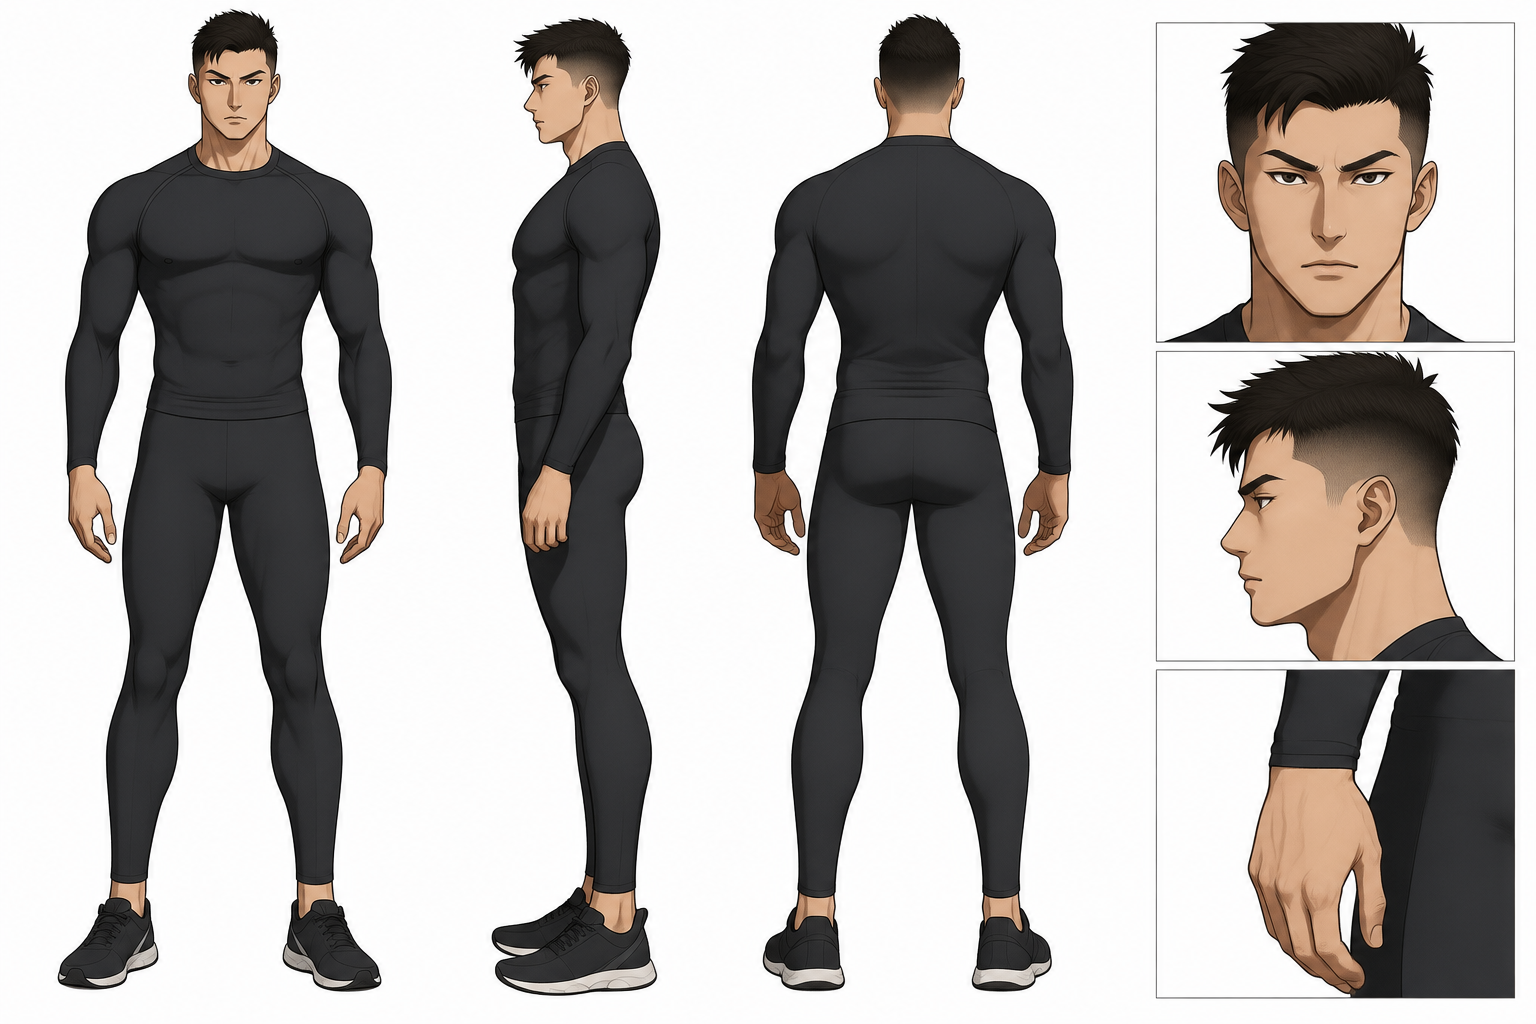
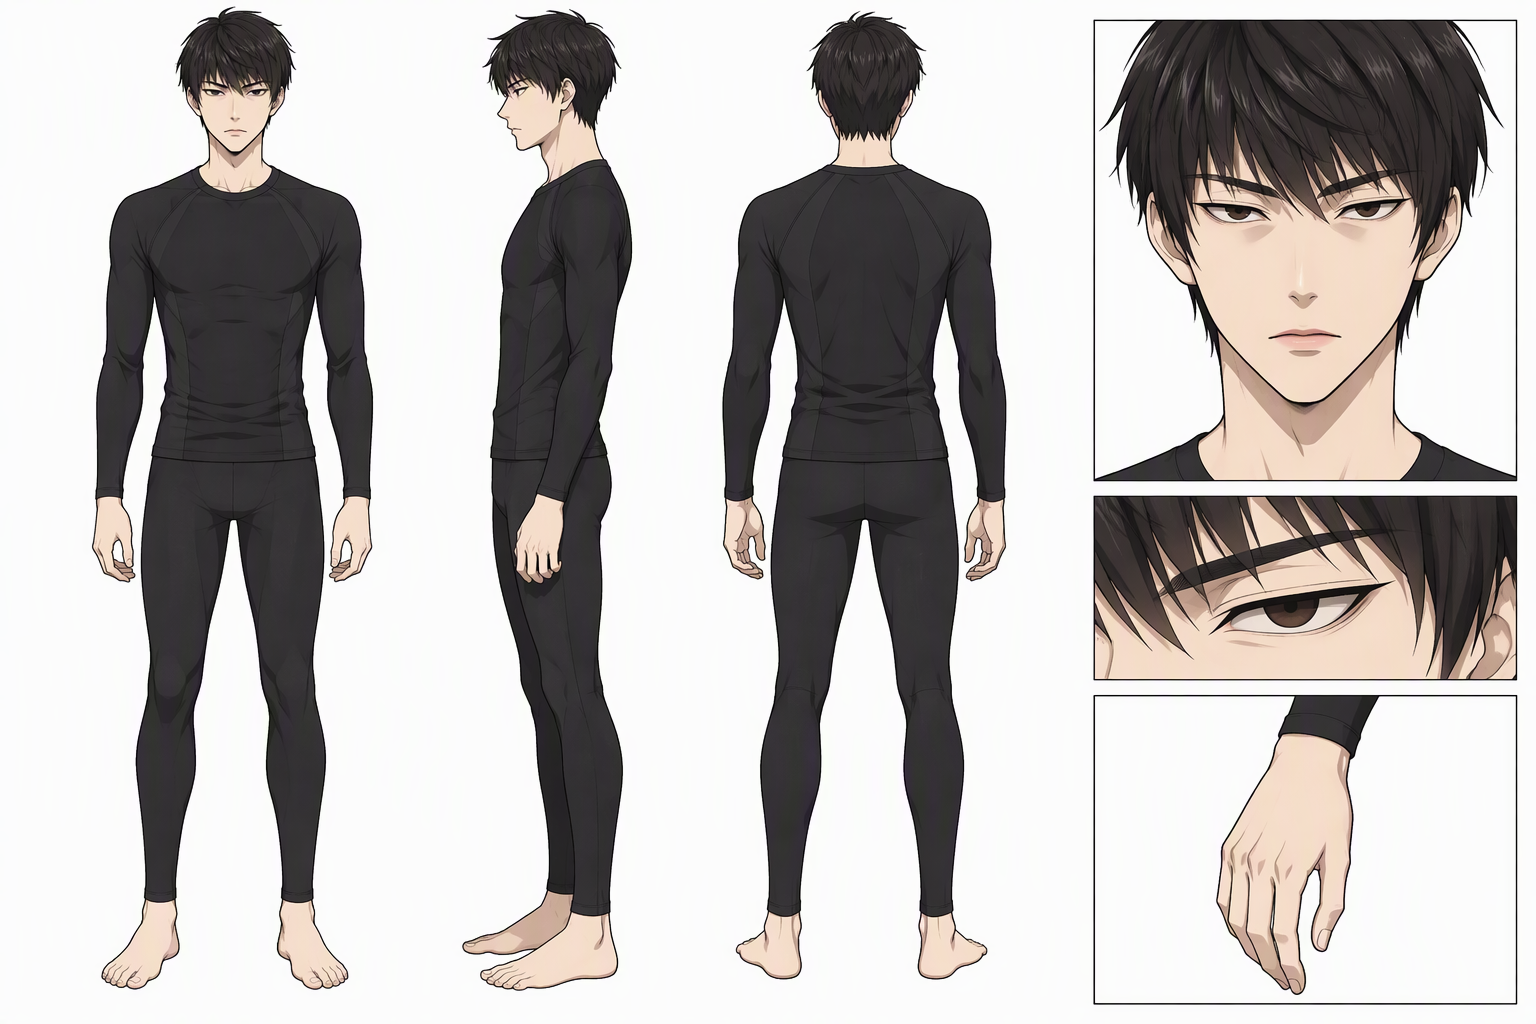
adjust

diff --git a/06_角色美术/江烈/prompt.md b/06_角色美术/江烈/prompt.md
@@ -1,20 +1,27 @@
-# 江烈 设计图提示词
+# 设计图提示词
+
+<!-- 图生图参考图：06_角色美术/江烈/参考图.jpg（dashboard 上传，已压缩） -->
+
+## 参考图任务
+一张真人参考照片为人物的外貌依据：从中提取面部特征、发型、体型与身形比例，将其转绘为动画风格的角色设计图。照片仅作外貌参照，外貌细节以下方补充特征为准；成品为纯手绘动画风格，不得保留照片质感、真实皮肤纹理或摄影光影。
 
 ## 画风
 
-1. **画面类型**：角色设计图，全身三视图（正面、侧面、背面），可附三宫格特写（面部、手部等），图面无描述性文字
-2. **线条**：细到中等线稿，外轮廓线略粗，内部结构线较细，面部线条极细，线条干净利落、略柔和，平滑无纹理，深色线稿（深棕至近黑）
-3. **上色与光影**：平涂上色（flat-shading），干净色块，分层平涂阴影，半硬边阴影（比硬边赛璐璐略柔、带轻微渐变过渡），明暗对比中等，单主光源，环境光弱，高光简洁点缀，皮肤带轻微渐变过渡
-4. **比例**：7.5头身，全身像，同一角色三视角外观严格一致
-5. **色调**：清爽高级的现代商业插画色调，中性偏暖，中等饱和度，中等色彩对比
+1. **画面类型**：角色设计图，全身三视图（正面、侧面、背面），三个视角并排展示同一角色，可附三宫格特写（面部、手部等），图面无描述性文字
+2. **线条**：中等线稿清晰利落，外轮廓线略粗，内部结构线较细，面部线条极细，线条粗细有从外轮廓到细节的过渡；线条风格干净利落，平滑流畅干净，线色深棕近黑
+3. **上色与光影**：纯色平涂（标准赛璐璐技法，clean cel-shading），主体干净色块填充；硬边分层平涂阴影，亮面与阴影面两阶，阴影边缘硬边无渐变过渡；明暗对比清晰，光照复杂度简单，单主光源，环境光弱，高光简洁点缀；皮肤为纯色平涂色块，无渐变
+4. **比例**：7.5头身，身形比例参照下方补充特征
+5. **色调**：色调干净明快，固有色干净明确，饱和度中等，色彩对比中等（靠明暗与色块层次）；发色、瞳色、肤色按下方补充特征提纯为干净的固有色
 6. **背景**：不透明纯色背景（白色，无渐变、无纹理、无场景元素）
 7. **分辨率**：1536x1024
 
-## 角色设定
+## 补充特征
+以下补充特征与参考照片不一致时，**一律以补充特征为准**：
 
-1. **体型**：青年男性，约182cm，肩宽背阔的精壮运动员体格，倒三角身形，常年健身的厚实肩臂线条，站姿挺拔绷直、重心稳沉，气场外放压人；三视图均为静态站姿，双手自然垂于身侧
-2. **面部**：中国面孔，青年轮廓，眉骨立体、眼窝深邃，黑褐色单眼皮狭长眼，薄唇；整体气质锋利如出鞘刀锋的竞技者，透着压不住的火气与胜负欲
-3. **发型**：黑褐色铲青短发，两侧与后脑剃净利落，顶部发条硬挺上扬，发质硬挺干净
-4. **基础衣物**：穿着深色基础衣物（黑色长袖压缩上衣与深色全长压缩裤），仅作体型参照，不涉及服装设计细节
-5. **外貌配色**：黑褐色头发，黑褐色瞳色，蜜色肤色，深色发色与暖调肤色形成干净对比
-6. **特殊标记**：无疤痕、纹身或胎记
+1. **体型与身形比例**：身高 175cm，精瘦利落的少年感身形，肩背挺直舒展，整体轮廓细长收束，青年年龄段，清瘦挺拔的少年体态
+2. **面部与五官**：中国面孔，下颌线条干净利落；深棕色狭长丹凤眼，眼尾上挑，内双；薄唇；肤色苍白；默认神情带常年高强度训练熬出的淡淡倦色，气质锐利审慎
+3. **发型**：黑色利落碎盖短发，发丝偏硬微翘，额前碎发压眉
+4. **基础衣物**：穿着深色基础衣物（黑色长袖压缩上衣与深色全长压缩裤），赤足光脚，双足裸露，仅作体型参照，不涉及服装设计细节
+5. **特殊标记**：无特殊标记
+6. **气质神态**：锋利逼人的胜负欲，少年狼性；第一印象是眼神像赛后复盘一样把人从头到脚扫一遍的魔鬼队长；整体观感像一把随时出鞘的薄刃
+7. **姿态**：静态站姿，双手自然垂于身侧，无交叠、叉腰、持物等动作

diff --git a/.claude/agents/plot-design.md b/.claude/agents/plot-design.md
@@ -20,7 +20,7 @@ Schema 文件：`00_init/Schema/剧情.md`（Chapter/Section + 产物链 SecOutl
 - **节级产物链**（各节独立推进、独立审批、独立重做；`Section -has_outline-> SecOutline -produces-> SecScript -[:produces {order}]-> LineAudio(×N 逐句行)`）：每节独立走 `chapter-outliner`（兜底建 SecOutline → ol=1）→ `chapter-dialoguer`（纯台词创作：产 `台词.ink` 人读定稿，兜底建 SecScript → sc=10 定稿待审）→ 定稿审（审 ink，→ sc=11）→ `section-voice-publisher`（**第一步拆分进图**：script_splitter.py 对齐 台词.ink ↔ 已有行 → 逐句 LineAudio 节点；第二步挑行 + 产选绘候选池 portrait_binder candidates；第三步 LLM 逐句判 emotion/clone_mode/tts_text/**选立绘 stand**；第四步 apply 建边——`LineAudio-[:uses]->stand`（sync=false）每句一条 + 新变体缺口兜底建（depicts/expands_to/ref_style）；第五步 TTS 克隆 + bind-graph 写行节点 status=10）→ `ambient-sfx-designer`（音频环境行（op=transition 点状 sfx 与 op=bed_start 音床）：点状走 Freesound CC0 实录、声景走 AudioFly 生成，产 wav 写 ambient_track + status=10）→ 逐句音频审（行 status 10→11）。
 - **台词模型**：台词.ink（ink 方言）是人读/人改的唯一定稿格式（机器可解析）；图行是结构化真相——行身份 = 节点雪花 id（voice key 末段 `<char>-<chapter_stem>-<scene_block_id>-<行节点id>`，插入/删除行不漂移）；顺序 = produces 边 order（大间距 ×1000，句间插入取中点）；`台词.jsonl` 已停产。
 - **LineAudio 行级审批**（行节点 status，只代表音频——文字审批已在定稿审完成）：say 行 `0` 待配/被驳回 → `10` 配完待审 → `11` 已通过；非 say 行拆分即 11。「节完成」gate = 该节全部行 status=11（派生判断）；单句驳回后审批卡出现「重生成」deeplink 唤起本 agent 单节聚焦（voice-publisher `--nodes <行id>` 只重做该句）。
-- **SecScript 人工微调回路（不经 plot-design）**：用户直接编辑 `台词.ink` 改单句 → dashboard「重新提交审批」（**仅 sc 0/1/11→10，不动行节点**）→ 定稿审 → 11 → 重跑 voice-publisher 重拆：text_sha1 匹配的行原样保留审批结果（含 11），只有被改句置 0 重配——手改不丢。**plot-design 看到行 status≠11 即需推配音**。注意 sc=0 可能是「驳回后人工编辑中」——重跑 dialoguer 会整篇覆盖手改，用户被明确提示过（按钮 help 文案），此时以 status 为准正常调度。
+- **SecScript 人工微调回路（不经 plot-design）**：用户在 dashboard 定稿编辑器直改 `台词.ink` → 「保存并同步 LineAudio」（写文件 + 对齐进图：被改句置 0、删行清 wav、新行入图，未变句审批结果不动）→ **sc=11（保存即定稿，人工编辑免定稿审）** → 重跑 voice-publisher 重拆：text_sha1 匹配的行原样保留审批结果（含 11），只有被改句置 0 重配——手改不丢。审批中心的「重新提交审批」（**仅 sc 0/1/11→10，不动行节点**）仍走定稿审路径。**plot-design 看到行 status≠11 即需推配音**。注意 sc=0 可能是「驳回后人工编辑中」——重跑 dialoguer 会整篇覆盖手改，用户被明确提示过（按钮 help 文案），此时以 status 为准正常调度。
 - **节完成**（派生判断）= SecOutline=1 ∧ SecScript=11 ∧ 该节全部 LineAudio 行=11；**Section 本身无 status**（纯编排容器）。
 - 立绘由 plot-design 按引用直调 `char-stand-designer` 推进（已从 char-design 剥离；推进范围按模式取——章节全量 = depicts 枚举，单节聚焦 = 本节 say 行 uses 边可达，严禁做后续节的事情）。**立绘上游 IllusDesign 未就绪时报警，不跨链调 char-design**。**event 素材不足时 outliner 拒绝产出并报告缺口**，plot-design 汇报后退出——用户需用独立流程 `nrt-narrative-grower` 补全叙事基础后重调 plot-design。
 - **BGM 不归 plot-design 编排**：BgmTrack（`Scene -has_bgm-> BgmTrack`，0→1→2 无审批）由 **scene-design agent 编排 `bgm-designer`** 推进（缺口兜底建 + 产描述 → 用户手动生成 wav 归档 `13_BGM/`）。plot-design 不调 bgm-designer、不检查 BgmTrack status（发布时 publisher 对 status<2 的警告跳过）。

diff --git a/06_角色美术/江烈/江烈-星耀队服训练着装/prompt.md b/06_角色美术/江烈/江烈-星耀队服训练着装/prompt.md
@@ -1,0 +1,21 @@
+# 着装提示词
+
+<!-- 图生图参考图：06_角色美术/江烈/设计图.png（同角色设计图，外貌已在底图） -->
+
+## 着装
+
+1. **开头声明**：角色立绘设计图，全身三视图（正面、侧面、背面），三个视角并排展示同一角色，可附三宫格特写（面部、手部等），图面无描述性文字
+2. **着装款式**：身穿黑底金纹的星耀战队队服短袖立领 polo 衫，肩袖拼接金色滚边，胸口绣星耀队徽；下身为黑色直筒运动长裤，裤腿侧边缀金色条纹
+3. **材质质感**：队服为运动功能性面料，平整挺括，肩袖滚边与胸口队徽刺绣工整清晰；运动长裤面料垂顺，侧边金线条纹平直服帖
+4. **配色**：上衣与长裤主体均为黑色，肩袖滚边、胸口队徽刺绣、裤侧条纹以金色点缀，黑金对比，整体呈运动战队风格
+5. **鞋袜**：脚穿运动鞋
+6. **配饰**：无配饰
+
+## 画风
+
+1. **线条**：中等线稿清晰利落，外轮廓线略粗，内部结构线较细，面部线条极细，线条粗细有从外轮廓到细节的过渡；线条风格干净利落，平滑流畅干净，线色深棕近黑
+2. **上色与光影**：纯色平涂（标准赛璐璐技法，clean cel-shading），主体干净色块填充；硬边分层平涂阴影，亮面与阴影面两阶，阴影边缘硬边无渐变过渡；明暗对比清晰，光照复杂度简单，单主光源，环境光弱，高光简洁点缀
+3. **比例**：7.5头身，与参考图同一角色保持一致
+4. **色调**：色调干净明快，固有色干净明确，饱和度中等，色彩对比中等（靠明暗与色块层次）
+5. **背景**：不透明纯色背景（白色，无渐变、无纹理、无场景元素）
+6. **分辨率**：1536x1024

diff --git a/13_BGM/锋芒试炼.md b/13_BGM/锋芒试炼.md
@@ -1,0 +1,19 @@
+# 锋芒试炼
+
+- **BgmTrack**：锋芒试炼（id `R4wHx9ByWu`）
+- **关联 Scene**：星耀电竞基地-训练馆（`QW7J1XaAFc`）
+- **mode / loop**：play / true
+- **status**：1（描述已产出，等待用户手动生成 wav 归档）
+- **日期**：2026-10-08
+
+## 音乐定位（description）
+
+星耀电竞基地训练馆主题：白天训练场景的职业竞技感——键盘密雨般的专注节奏下，暗涌着试训对峙与考核压力，冷冽有序、蓄势待发。
+
+## 生成用文字（prompt）
+
+电子竞技训练馆背景音乐，紧张而克制的职业感。合成器脉冲铺底，琶音模拟密集键盘敲击的节奏律动，低音贝斯沉稳推进，点缀金属质感的打击乐碎片。中速 105-115 BPM，律动紧凑连贯，情绪专注压抑中带蓄势的锋芒，冷色调电子氛围，不喧哗。结构循环友好，开头直接进入主题，尾句可无缝接回开头，总长 1-2 分钟。避免人声、避免突兀高潮与强烈旋律线，作为对话背景不抢台词。
+
+## 归档
+
+wav 归档路径：`13_BGM/锋芒试炼.wav`（生成后手动放入，再次触发 bgm-designer 或在 dashboard 置 status=2）

diff --git a/07_场景美术/星耀电竞基地/星耀电竞基地-训练馆/background/prompt.md b/07_场景美术/星耀电竞基地/星耀电竞基地-训练馆/background/prompt.md
@@ -1,0 +1,17 @@
+# 场景背景提示词
+
+## 用途与主体
+
+游戏对话背景图，星耀电竞基地的训练房间，白天，五台训练机屏幕亮着队标蓝，键盘声密如雨点——这里只认成绩不认解释。
+
+## 环境（远中近景）
+
+远景是房间后墙的战术大屏幕与屏幕下方靠墙的复盘沙发，中景是沿右侧墙一排五台选手训练机连坐工位。
+
+## 光影
+
+主光源从顶棚照射，呈现白色长条灯的均匀冷白色调，环境光为训练机屏幕与战术大屏的蓝紫反光。
+
+## 风格
+
+主色冷白灰，辅色队标蓝紫，点缀屏幕荧光青——职业化的秩序与压力。油画风格，大色块平涂，忽略细节，冷色调，明亮通透，手绘厚涂质感，游戏美术，无角色，机位后退取全景，画面中下部留空作角色站位区，图面无描述性文字。
